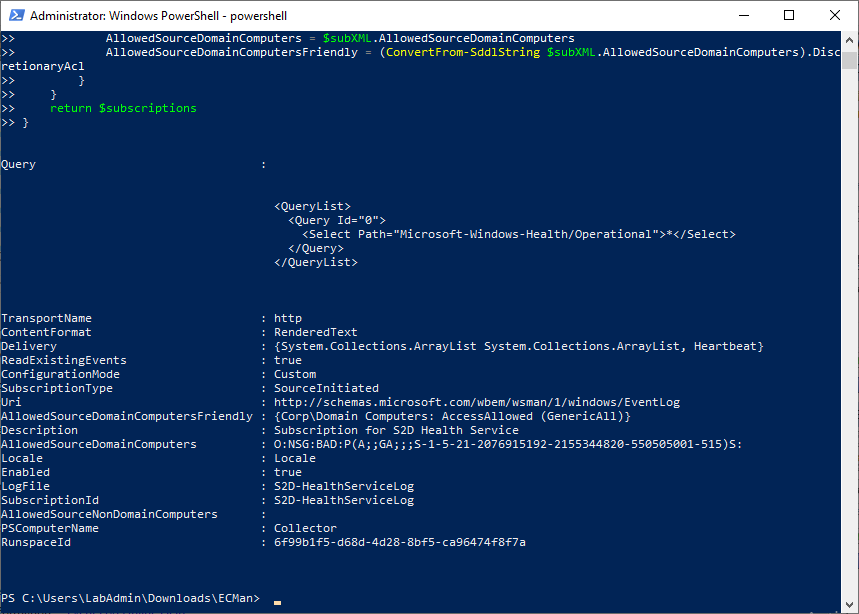
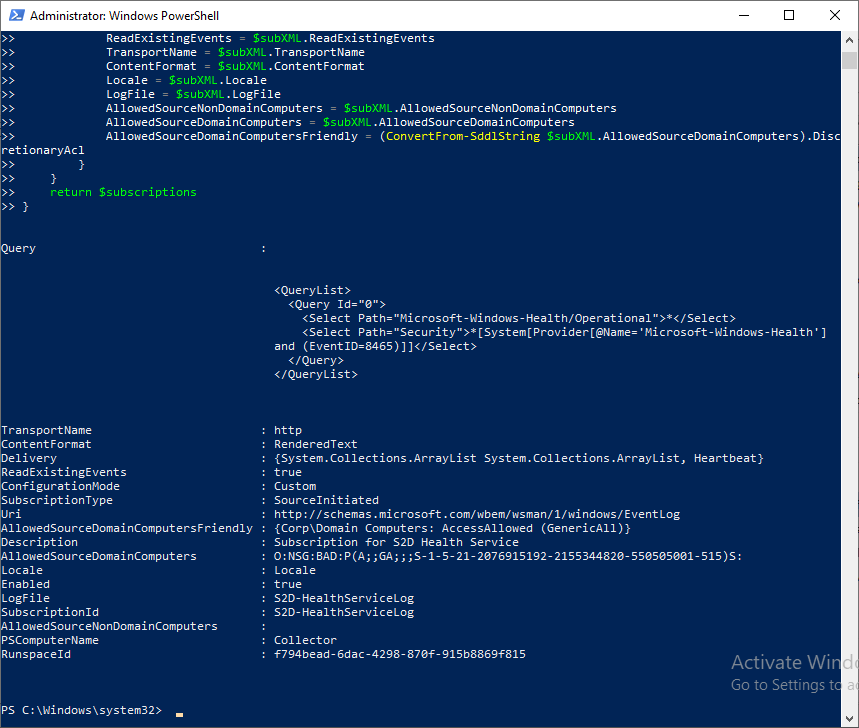
Added few things
Former-commit-id: 9ff7bb7797e3ce950206aa5b42727a85d6f6b8f0

diff --git a/Scenarios/S2D and Health Service logging/readme.md b/Scenarios/S2D and Health Service logging/readme.md
@@ -4,7 +4,15 @@
     - [Sample LabConfig for Windows Server 2019](#sample-labconfig-for-windows-server-2019)
     - [About the lab](#about-the-lab)
     - [Prerequisites](#prerequisites)
-        - [The Lab](#the-lab)
+    - [The Lab](#the-lab)
+        - [Create custom log on Collector Server](#create-custom-log-on-collector-server)
+        - [Enable Health Service Logging](#enable-health-service-logging)
+        - [Configure event subscription](#configure-event-subscription)
+        - [Validate subscription on collector server](#validate-subscription-on-collector-server)
+        - [Configure Collector server address on member servers](#configure-collector-server-address-on-member-servers)
+        - [Check if servers are registered with Collector](#check-if-servers-are-registered-with-collector)
+        - [Resize/Move log if needed](#resizemove-log-if-needed)
+        - [Enjoy logs redirected to collector](#enjoy-logs-redirected-to-collector)
 
 <!-- /TOC -->
 
@@ -300,6 +308,7 @@ $Query=@"
 <QueryList>
   <Query Id="0">
     <Select Path="Microsoft-Windows-Health/Operational">*</Select>
+    <Select Path="Security">*[System[Provider[@Name='Microsoft-Windows-Health'] and (EventID=8465)]]</Select>
   </Query>
 </QueryList>
 "@
@@ -446,9 +455,33 @@ Invoke-Command -ComputerName $CollectorServerName -ScriptBlock {
 
 ![](/Scenarios/S2D%20and%20Health%20Service%20logging/Screenshots/SubscribedServers.png)
 
+### Resize/Move log if needed
+
+In case you want to increase log size or move it somewhere else, you can do it with wewutil
+
+```PowerShell
+$CollectorServerName="Collector"
+$Path="C:\Logs"
+$MaxSize=1GB
+$LogName="S2D-HealthServiceLog"
+
+Invoke-Command -ComputerName $CollectorServerName -ScriptBlock {
+    #Create log folder if not exist
+    If (-not (Test-Path $using:Path)){
+        New-Item -Path $using:Path -Type Directory
+    }
+    #set max size
+    wevtutil set-log $using:LogName /MaxSize:$($Using:MaxSize)
+    #set location
+    wevtutil set-log $using:LogName /LogFileName:"$($Using:Path)\$using:LogName.evtx"
+}
+ 
+```
+
+![](/Scenarios/S2D%20and%20Health%20Service%20logging/Screenshots/ConfiguredLog.png)
+
 ### Enjoy logs redirected to collector
 
 Shutdown some server and wait for at least 5 minutes for health service to kick in. You should see logs on collector server
-
 
 ![](/Scenarios/S2D%20and%20Health%20Service%20logging/Screenshots/RedirectedLogs.png)
